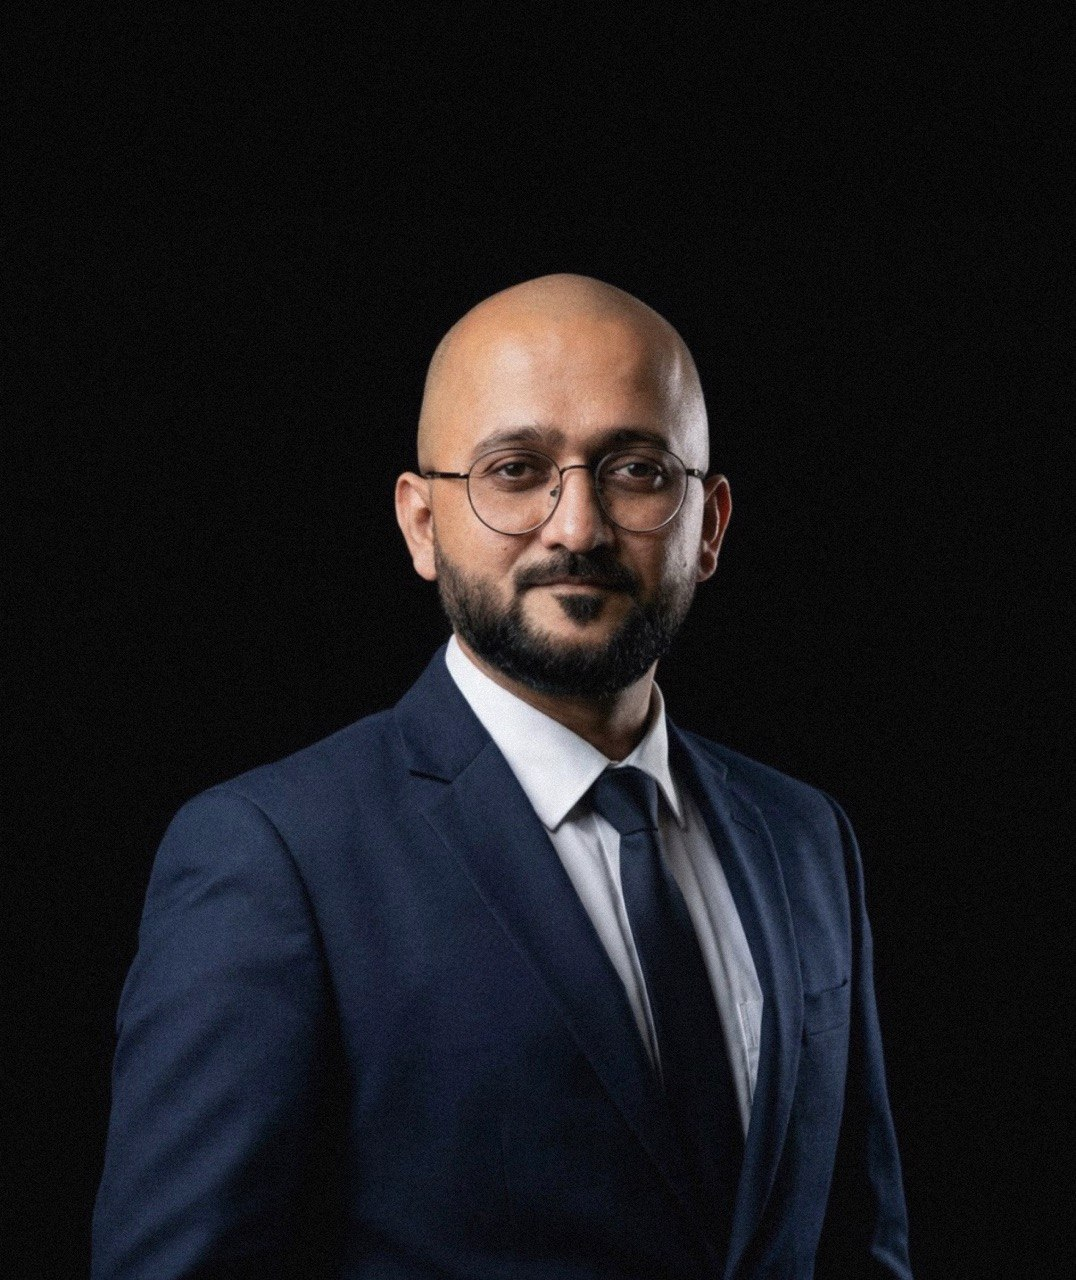
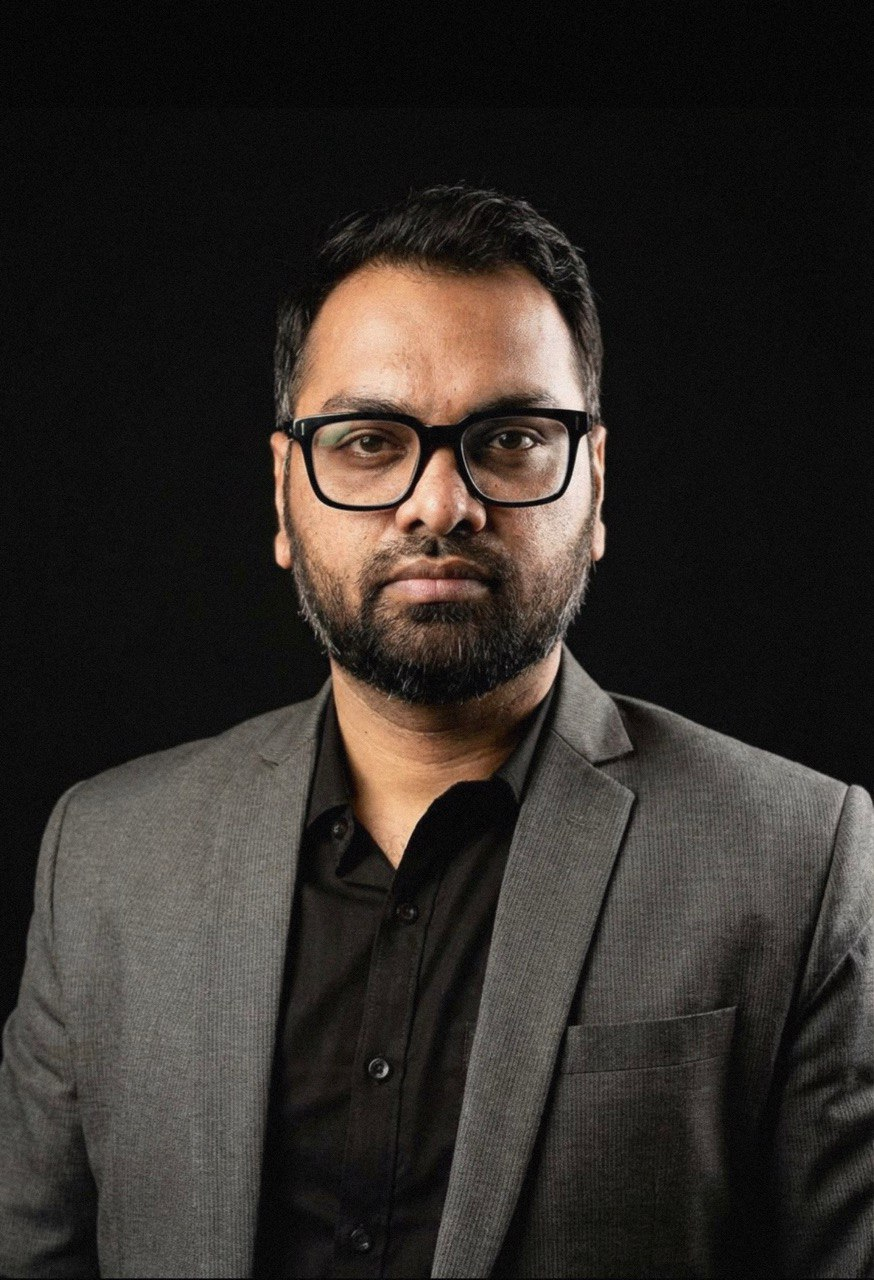
Бухгалтеры: индийские имена + верное фото Омера
По правкам Николь: Омер — фото с волосами и очками (394), а не лысый.
Условные имена двух бухгалтеров заменены на индийские: Радж (389, лысый),
Нихил (392). maya=391, omer=394 (EN/AR), raj/nikhil — EN.

diff --git a/app/main.py b/app/main.py
@@ -185,8 +185,9 @@ LEGACY_TOOL_ANCHORS: dict[str, str] = {
 # Сертифицированные бухгалтеры — блок доверия в кружочках (решение Николь
 # 2026-06-02): на квиз-лендинге /consultation и в кабинете у приглашения на
 # консультацию. Только визуал доверия (без клика). Майя — реальное имя/роль
-# (главбух), Омер — ведущий бухгалтер; имена Адам/Даниэль условные (по просьбе
-# Николь), языки — флагами. Фото в static/img/accountants/.
+# (главбух, фото 391), Омер — ведущий бухгалтер (фото 394, с волосами и очками);
+# Радж/Нихил — условные ИНДИЙСКИЕ имена (по просьбе Николь), языки — флагами.
+# Фото в static/img/accountants/.
 ACCOUNTANTS: list[dict] = [
     {"photo": "/static/img/accountants/maya.jpg", "name": "Майя Мандзюк",
      "name_en": "Maya Mandziuk", "role": "Главный бухгалтер",
@@ -194,11 +195,11 @@ ACCOUNTANTS: list[dict] = [
     {"photo": "/static/img/accountants/omer.jpg", "name": "Омер",
      "name_en": "Omer", "role": "Ведущий бухгалтер",
      "role_en": "Lead accountant", "flags": "🇬🇧 🇦🇪"},
-    {"photo": "/static/img/accountants/adam.jpg", "name": "Адам",
-     "name_en": "Adam", "role": "Бухгалтер", "role_en": "Accountant",
+    {"photo": "/static/img/accountants/raj.jpg", "name": "Радж",
+     "name_en": "Raj", "role": "Бухгалтер", "role_en": "Accountant",
      "flags": "🇬🇧"},
-    {"photo": "/static/img/accountants/daniel.jpg", "name": "Даниэль",
-     "name_en": "Daniel", "role": "Бухгалтер", "role_en": "Accountant",
+    {"photo": "/static/img/accountants/nikhil.jpg", "name": "Нихил",
+     "name_en": "Nikhil", "role": "Бухгалтер", "role_en": "Accountant",
      "flags": "🇬🇧"},
 ]
 